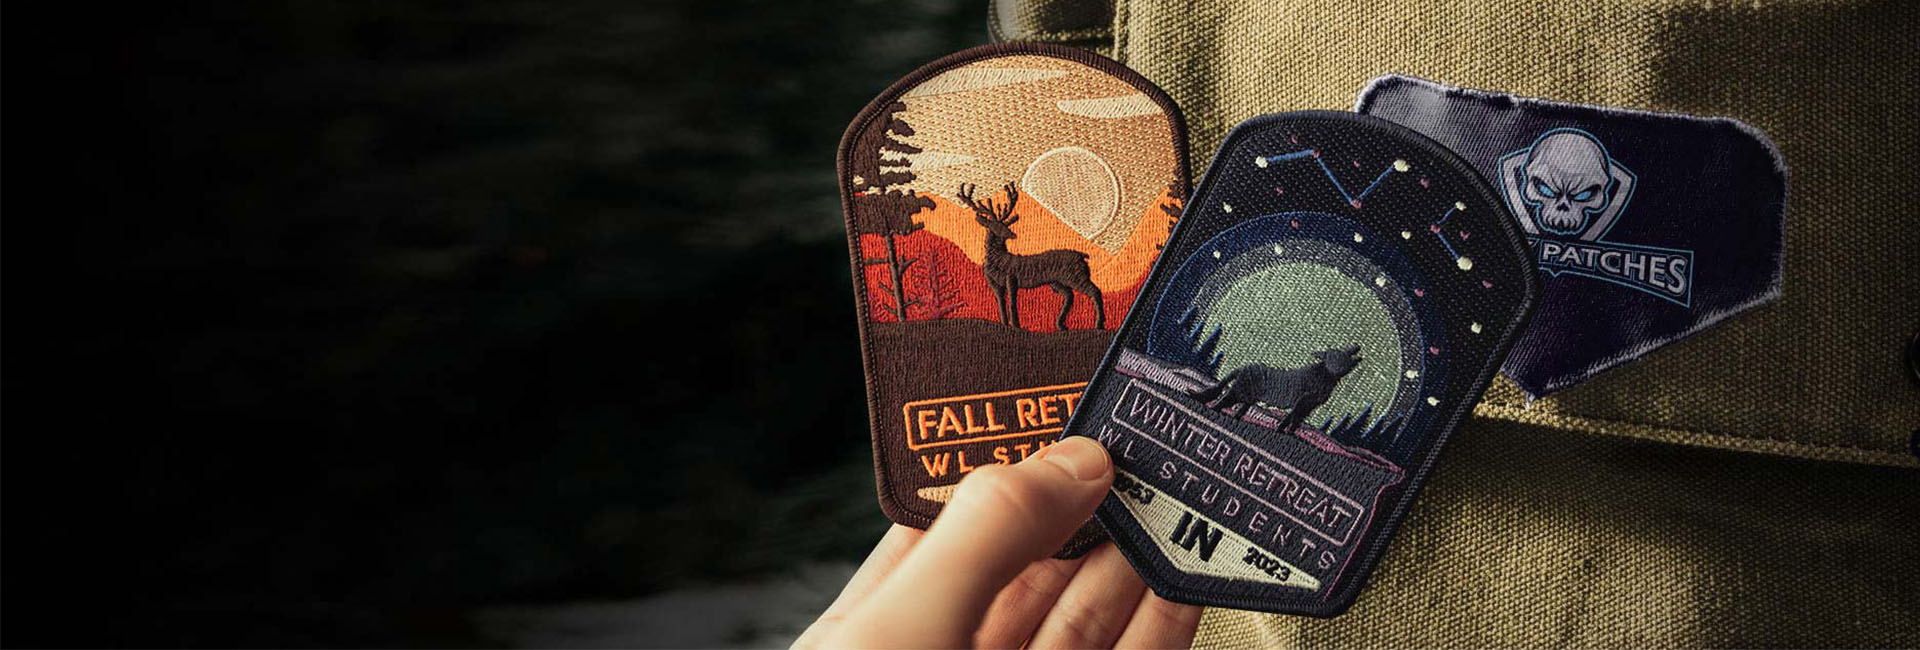
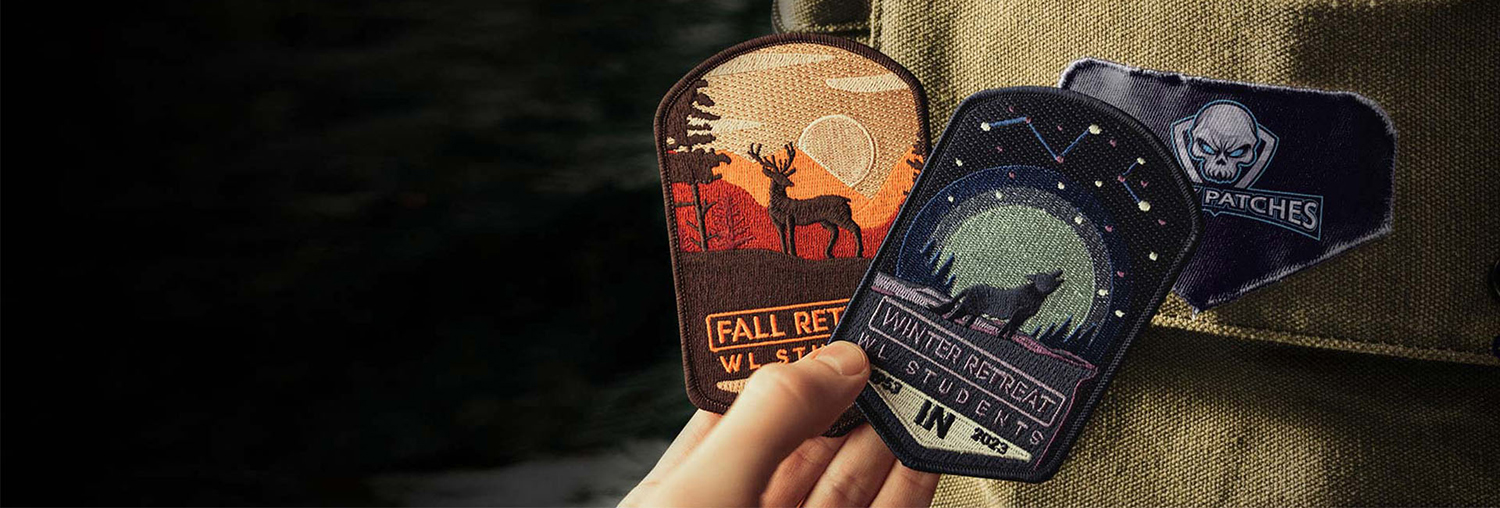
initial commit

diff --git a/src/app/globals.css b/src/app/globals.css
@@ -392,7 +392,7 @@ ul.container-list li.container-list-item {
   margin-top: 50px;
 }
 .hero-banner-bg-img {
-  background-image: url("/assets/emb.jpg");
+  background-image: url("/assets/emb.webp");
   height: 500px;
   background-position: center;
   background-size: cover;
